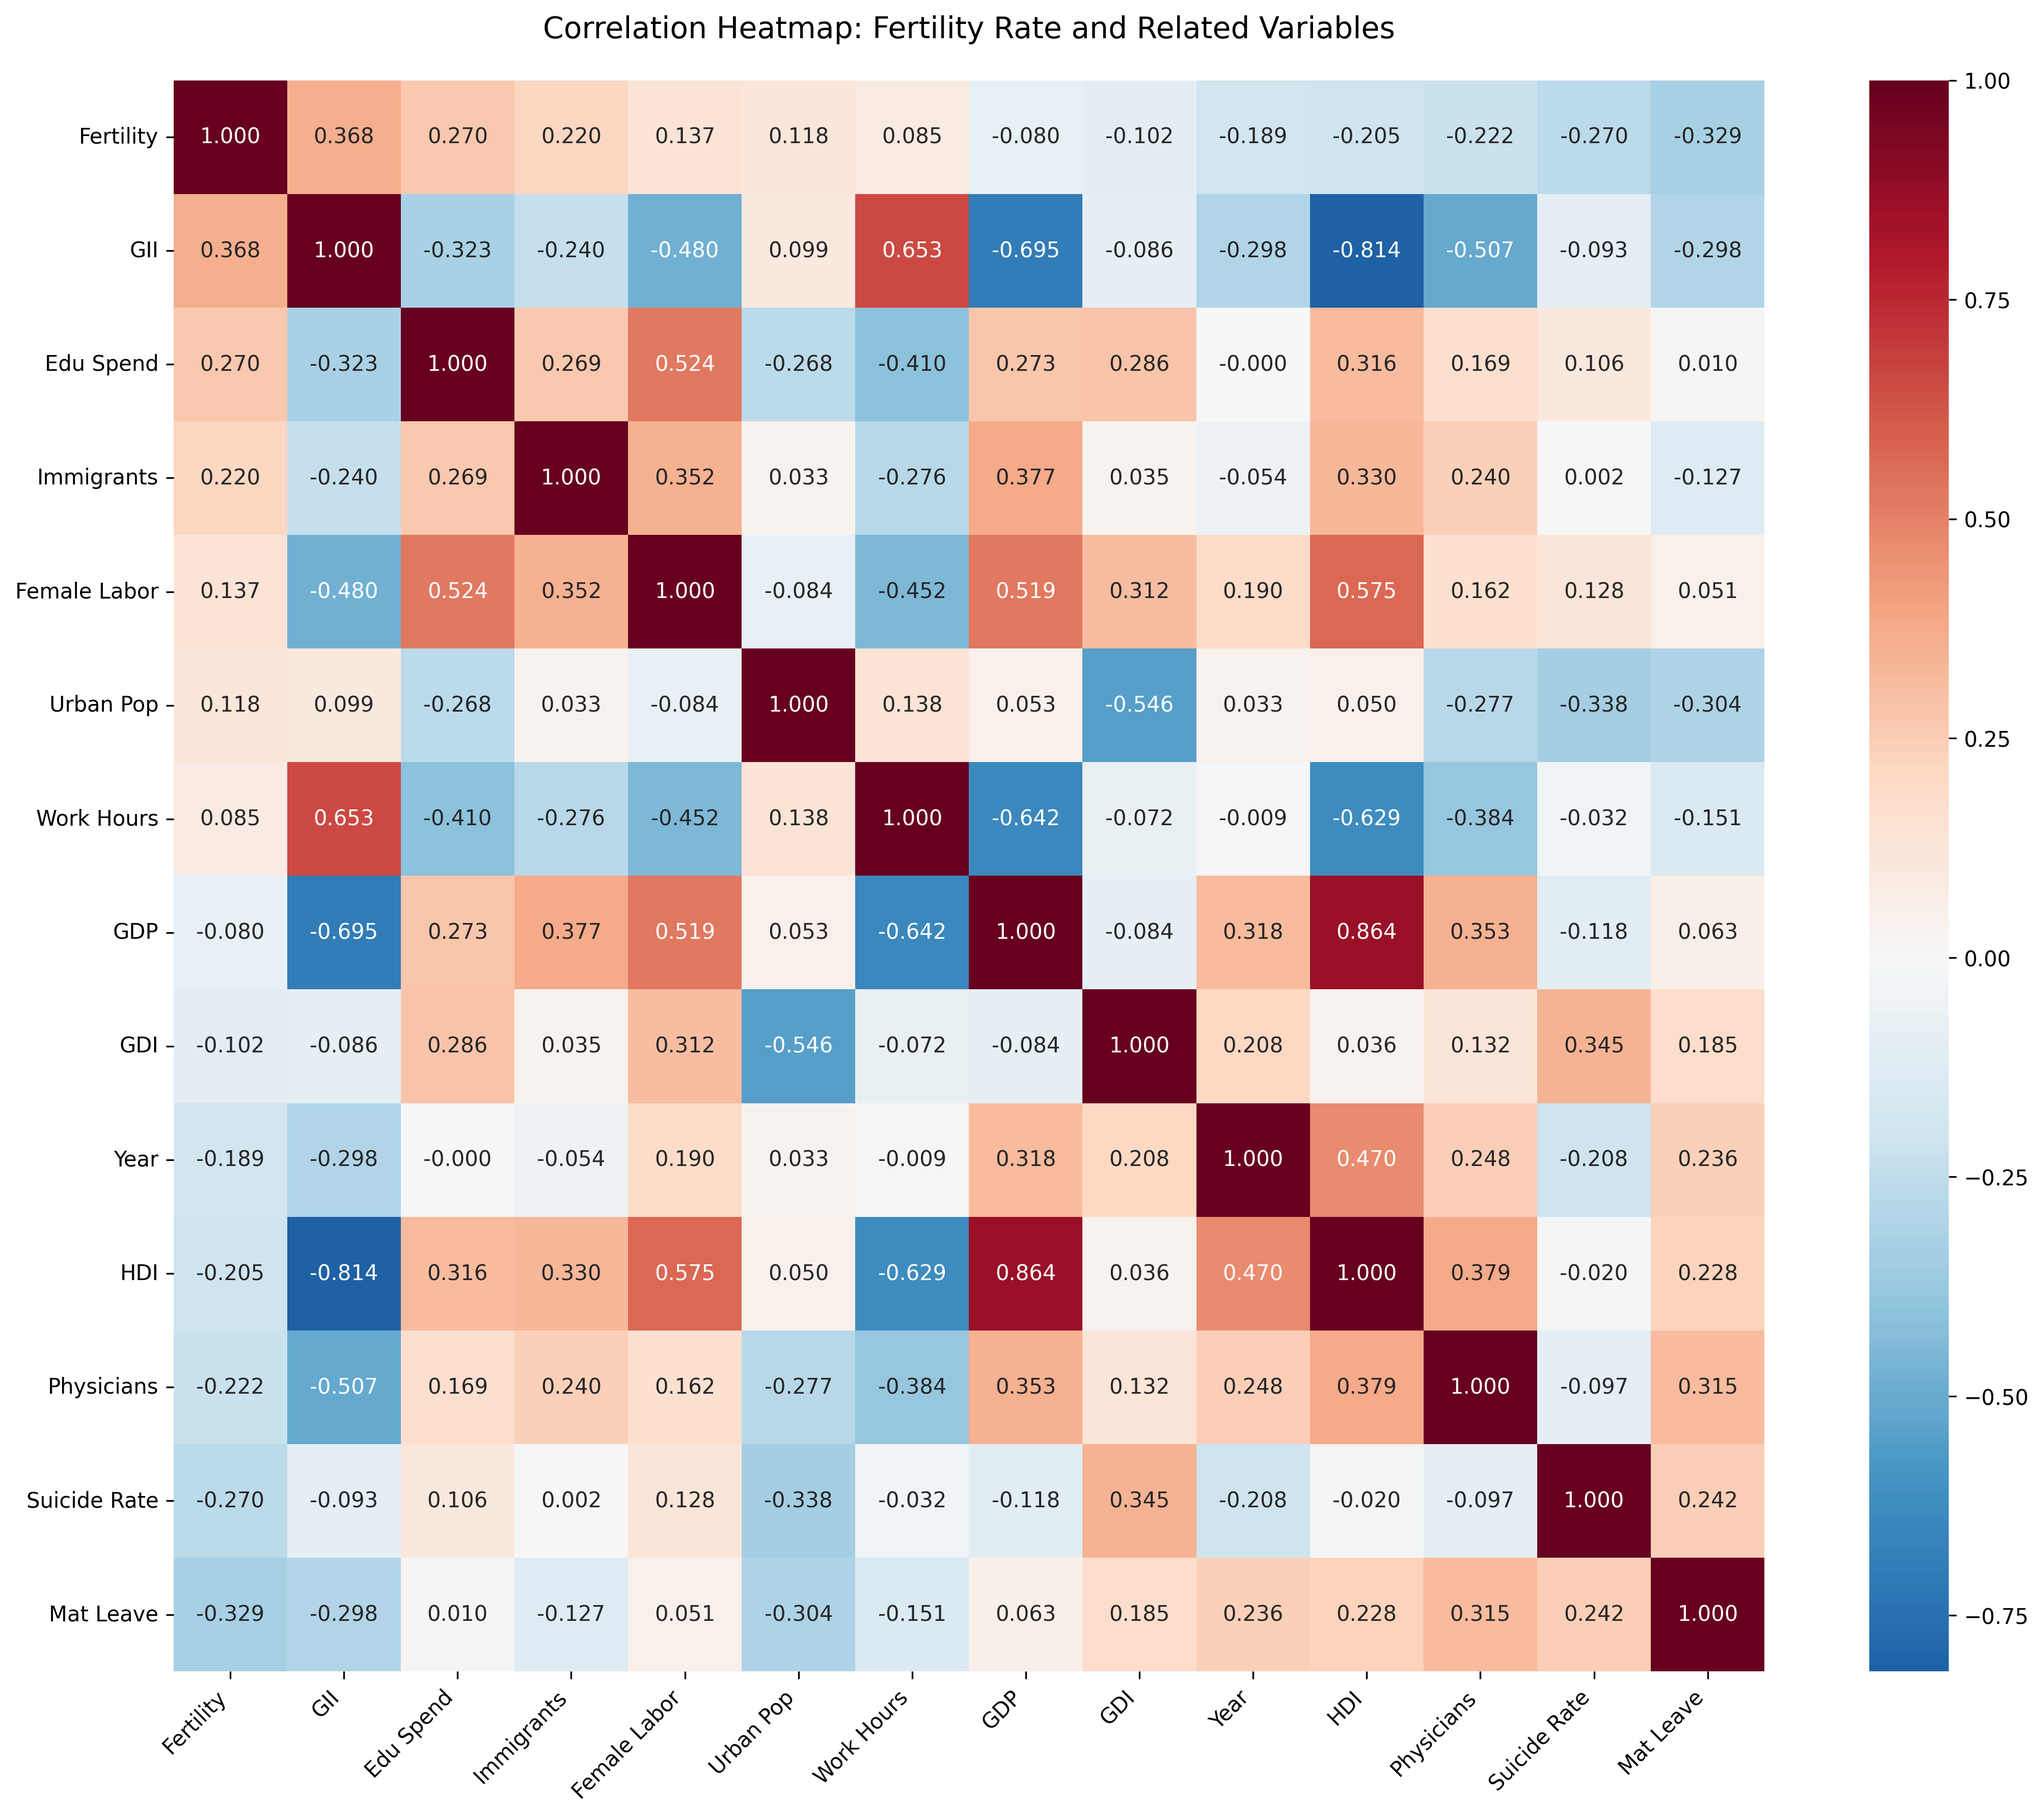
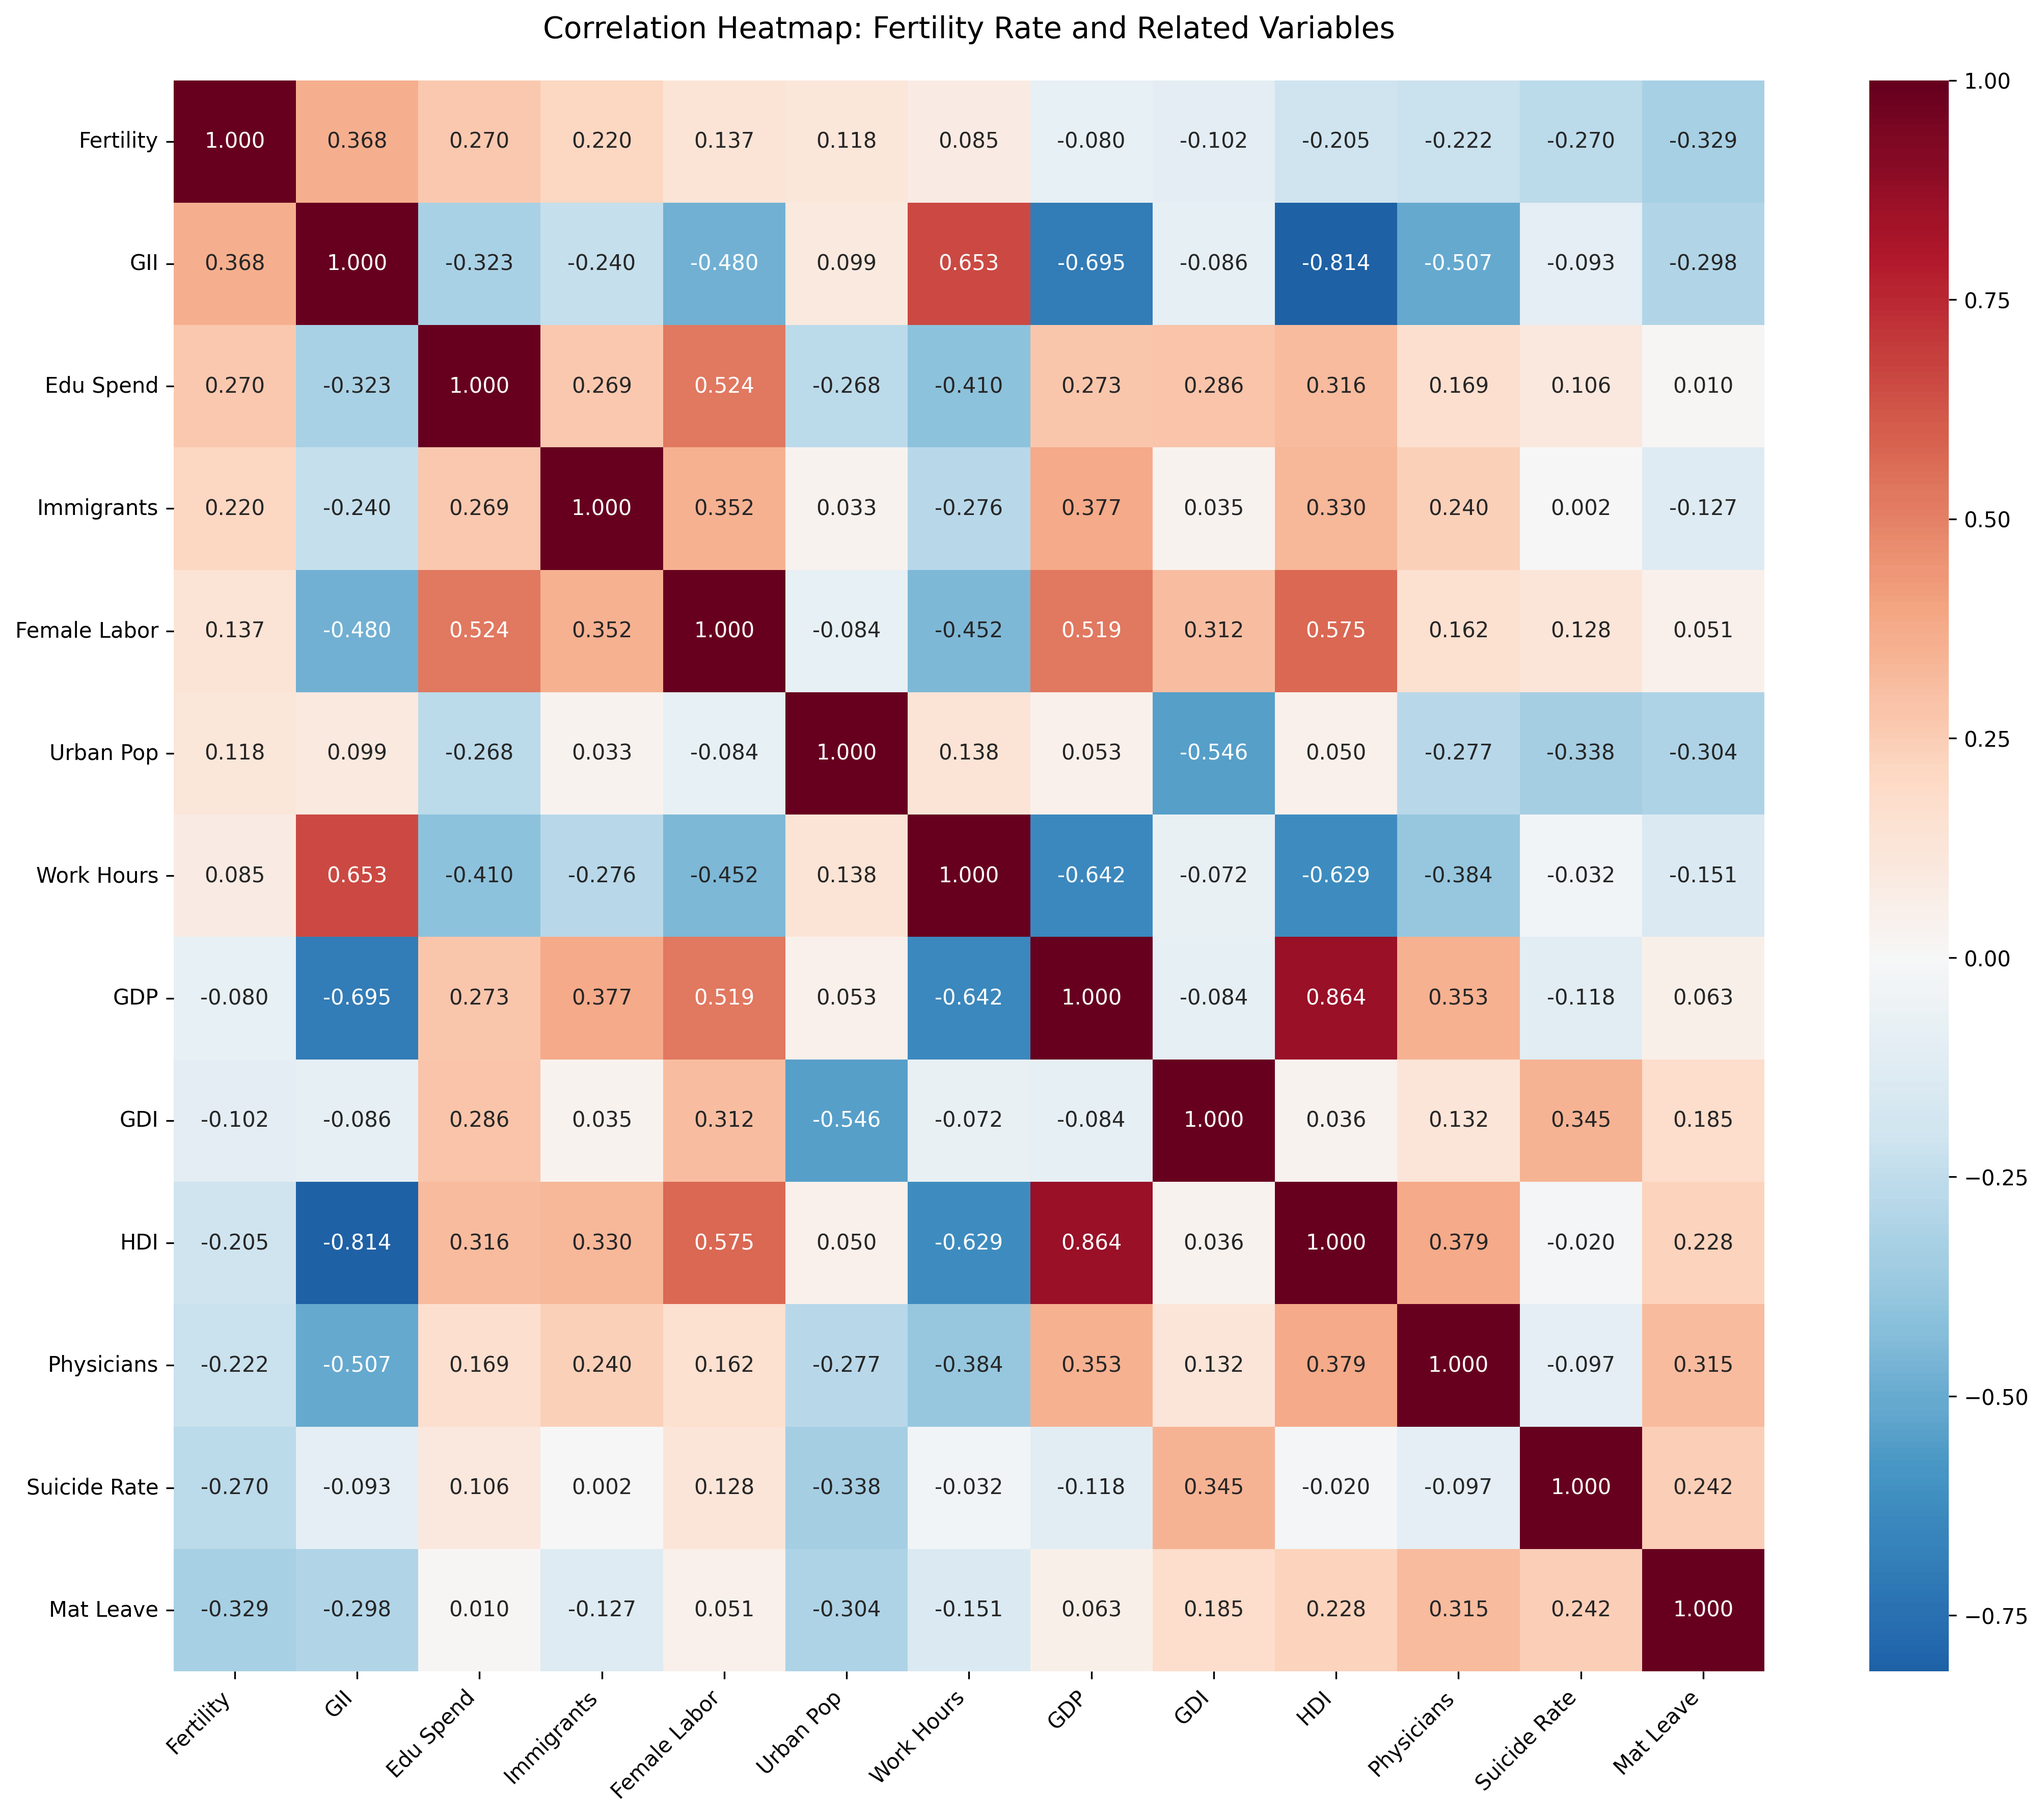
made a bar plot

diff --git a/src/fertility_analysis_complete.py b/src/fertility_analysis_complete.py
@@ -89,9 +89,7 @@ filtered_data = remove_outliers(filtered_data, numeric_cols)
 
 # 相関分析
 plt.figure(figsize=(15, 12))  # サイズを大きくする
-
-# 相関行列の計算
-correlation_matrix = filtered_data.select_dtypes(include=[np.number]).corr()
+correlation_matrix = filtered_data.select_dtypes(include=[np.number]).drop('Year', axis=1).corr()
 
 # Fertilityと他の変数との相関のみを抽出
 fertility_correlations = correlation_matrix['Fertility'].sort_values(ascending=False)
@@ -121,6 +119,57 @@ plt.tight_layout()
 # 高解像度で保存
 plt.savefig("../results/figures/fertility_correlation_heatmap.png", 
     dpi=300, 
+    bbox_inches='tight'
+)
+plt.close()
+
+# Create enhanced correlation bar plot
+plt.figure(figsize=(12, 8))
+fertility_correlations_sorted = fertility_correlations[1:].sort_values()
+
+# Plot horizontal bars with enhanced styling
+bars = plt.barh(range(len(fertility_correlations_sorted)), 
+                fertility_correlations_sorted,
+                color=['#FF6B6B' if x < 0 else '#4ECDC4' for x in fertility_correlations_sorted],
+                alpha=0.7)
+
+# Enhance graph decorations
+plt.yticks(range(len(fertility_correlations_sorted)), 
+           fertility_correlations_sorted.index,
+           fontsize=10)
+plt.xlabel('Correlation Coefficient', fontsize=12)
+plt.title('Correlation Coefficients with Fertility Rate', fontsize=14, pad=20)
+
+# Add value labels with improved positioning
+for i, v in enumerate(fertility_correlations_sorted):
+    plt.text(v + (0.01 if v >= 0 else -0.01), 
+             i,
+             f'{v:.3f}',
+             va='center',
+             ha='left' if v >= 0 else 'right',
+             fontsize=10,
+             bbox=dict(facecolor='white', 
+                      edgecolor='none', 
+                      alpha=0.7,
+                      pad=1))
+
+# Add enhanced grid and reference line
+plt.grid(True, alpha=0.3, axis='x', linestyle='--')
+plt.axvline(x=0, color='black', linestyle='-', linewidth=0.5)
+
+# Add explanatory text
+plt.text(0.02, -0.15, 
+         'Positive correlations indicate variables that increase with fertility rate\n'
+         'Negative correlations indicate variables that decrease with fertility rate',
+         transform=plt.gca().transAxes,
+         fontsize=10,
+         style='italic')
+
+plt.tight_layout()
+
+# Save high-resolution bar plot
+plt.savefig("../results/figures/fertility_correlation_barplot.png",
+    dpi=300,
     bbox_inches='tight'
 )
 plt.close()
